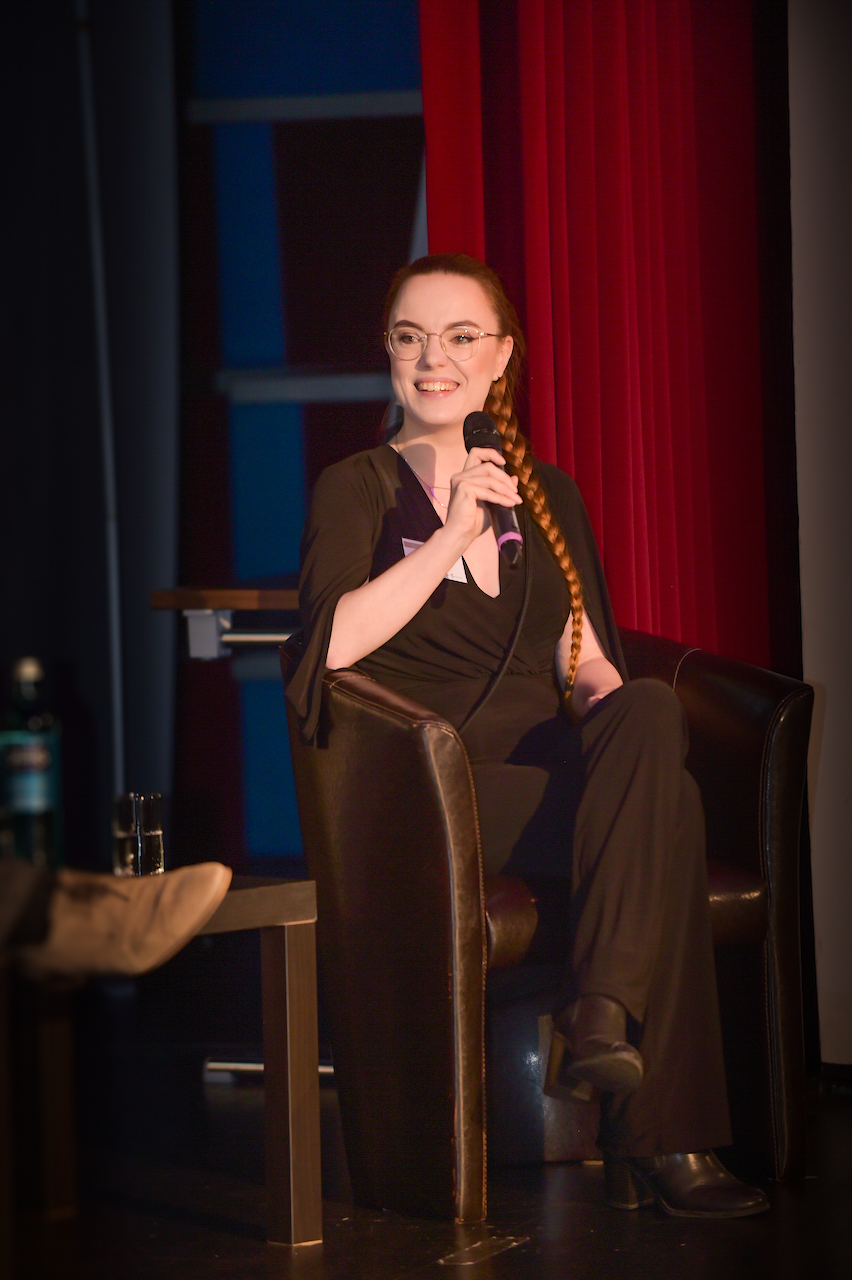
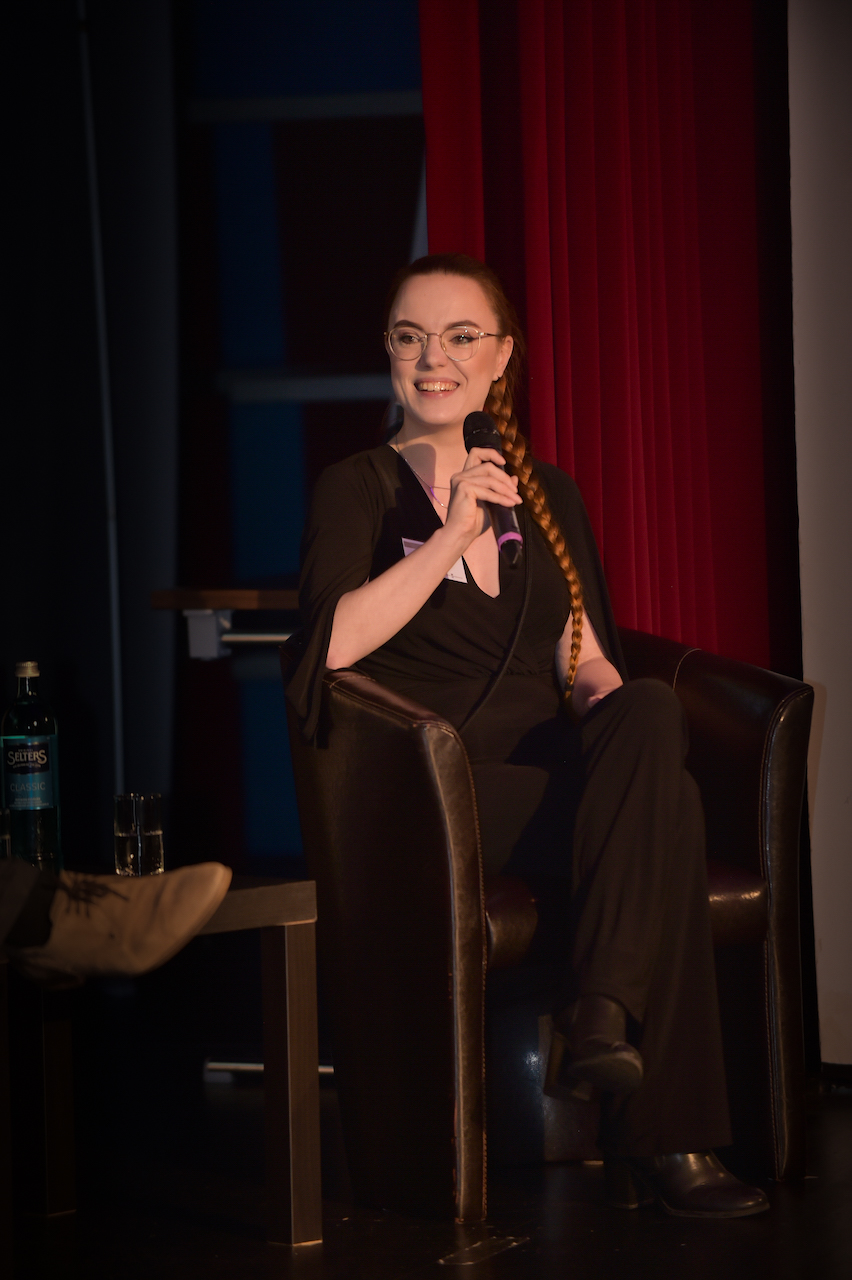
feat: update images

diff --git a/src/data/diaryEntries/meistertag-2022.md b/src/data/diaryEntries/meistertag-2022.md
@@ -8,7 +8,7 @@ date: 'September 2022'
 featured: 5
 category: 'Events'
 listImageUrl: 'sarah-edit.jpg'
-titleImageUrl: 'title-meistertag-2022.jpg'
+titleImageUrl: 'title-meistertag-2022-edit.jpg'
 imageUrls: [
     'neubaur.jpg',
     'sarah-edit.jpg',
